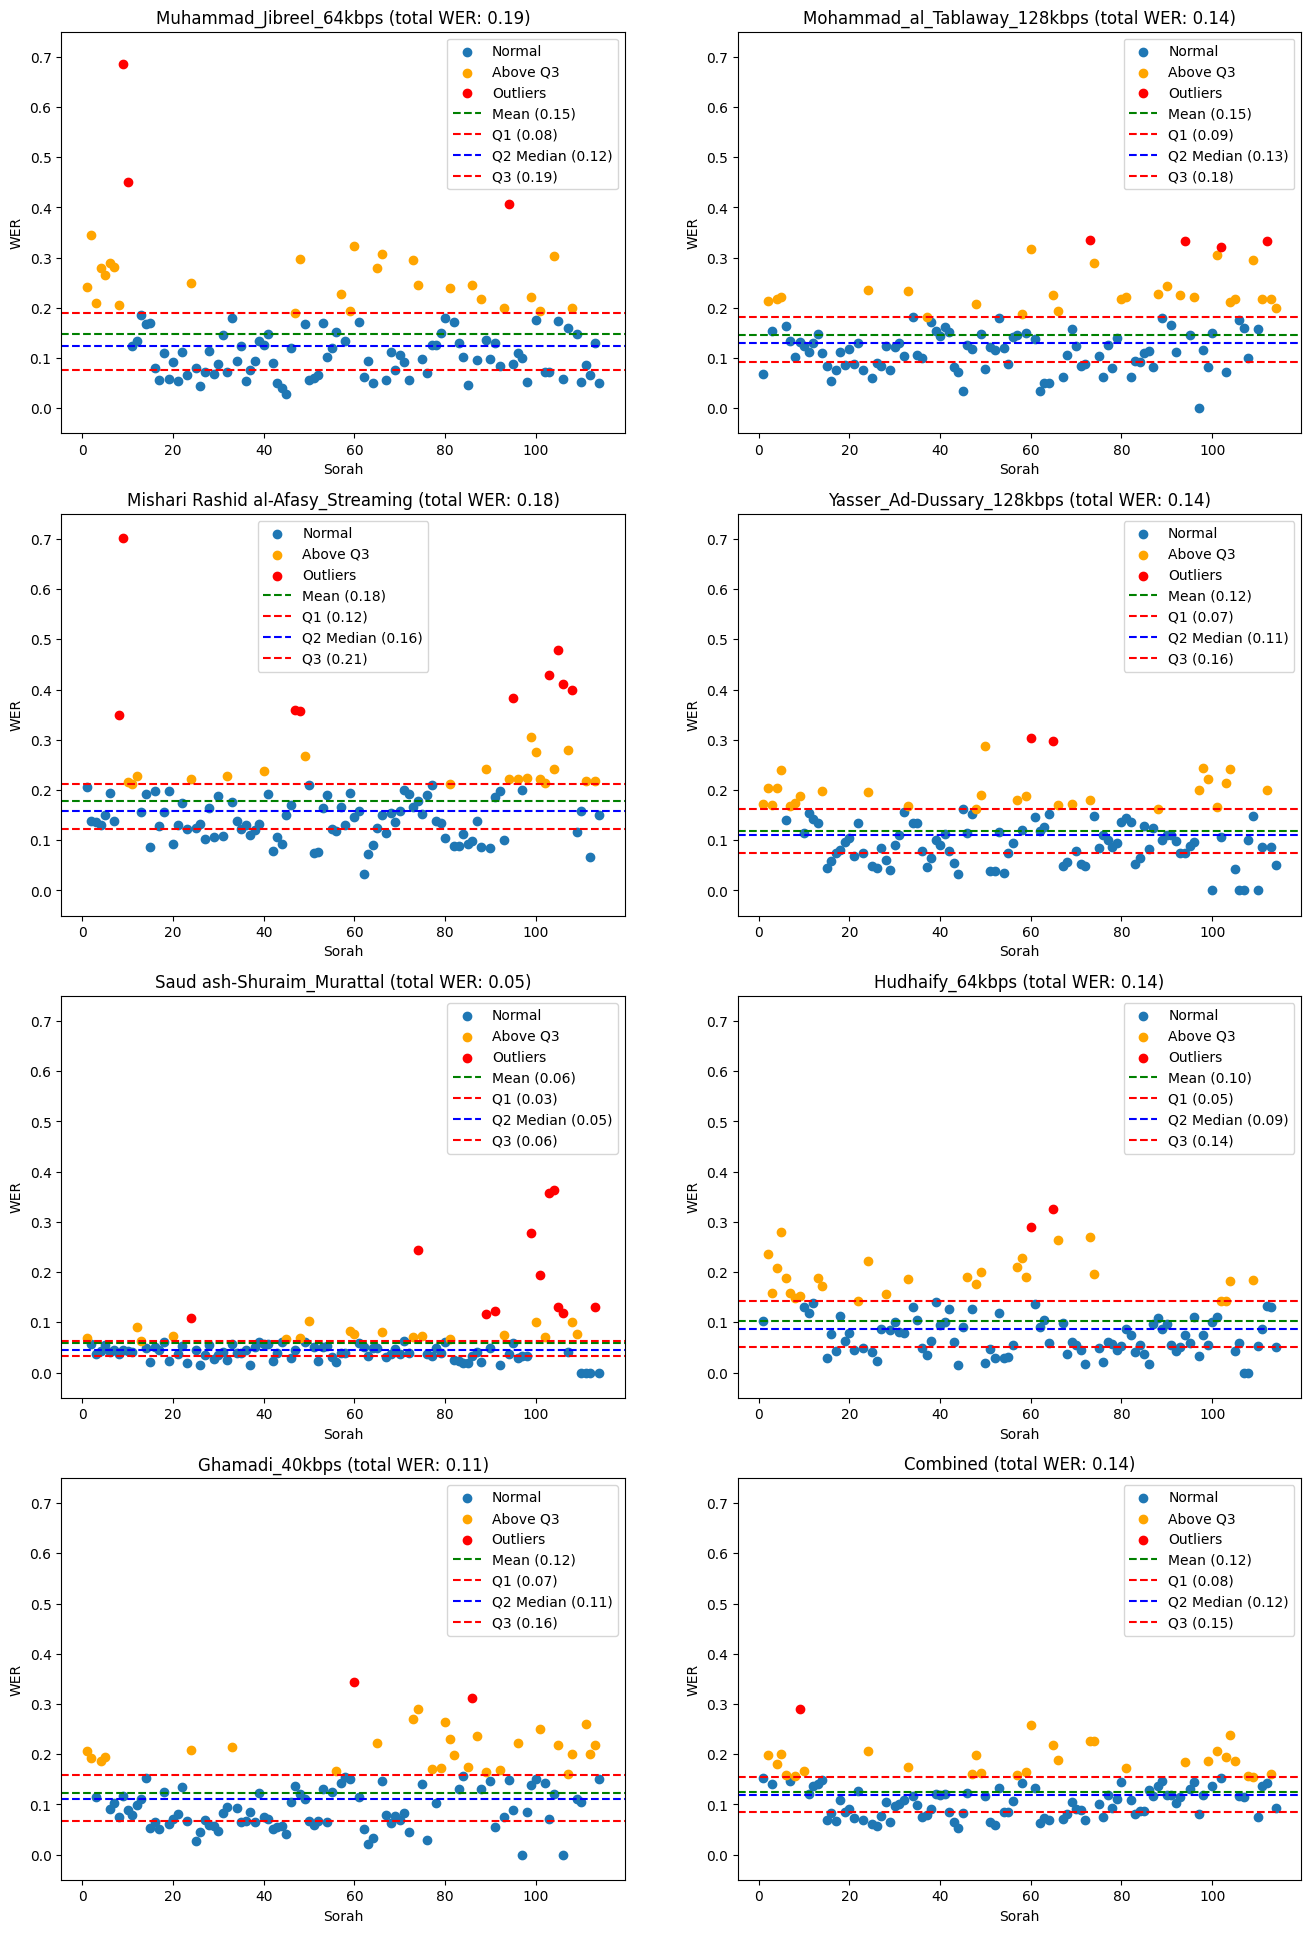
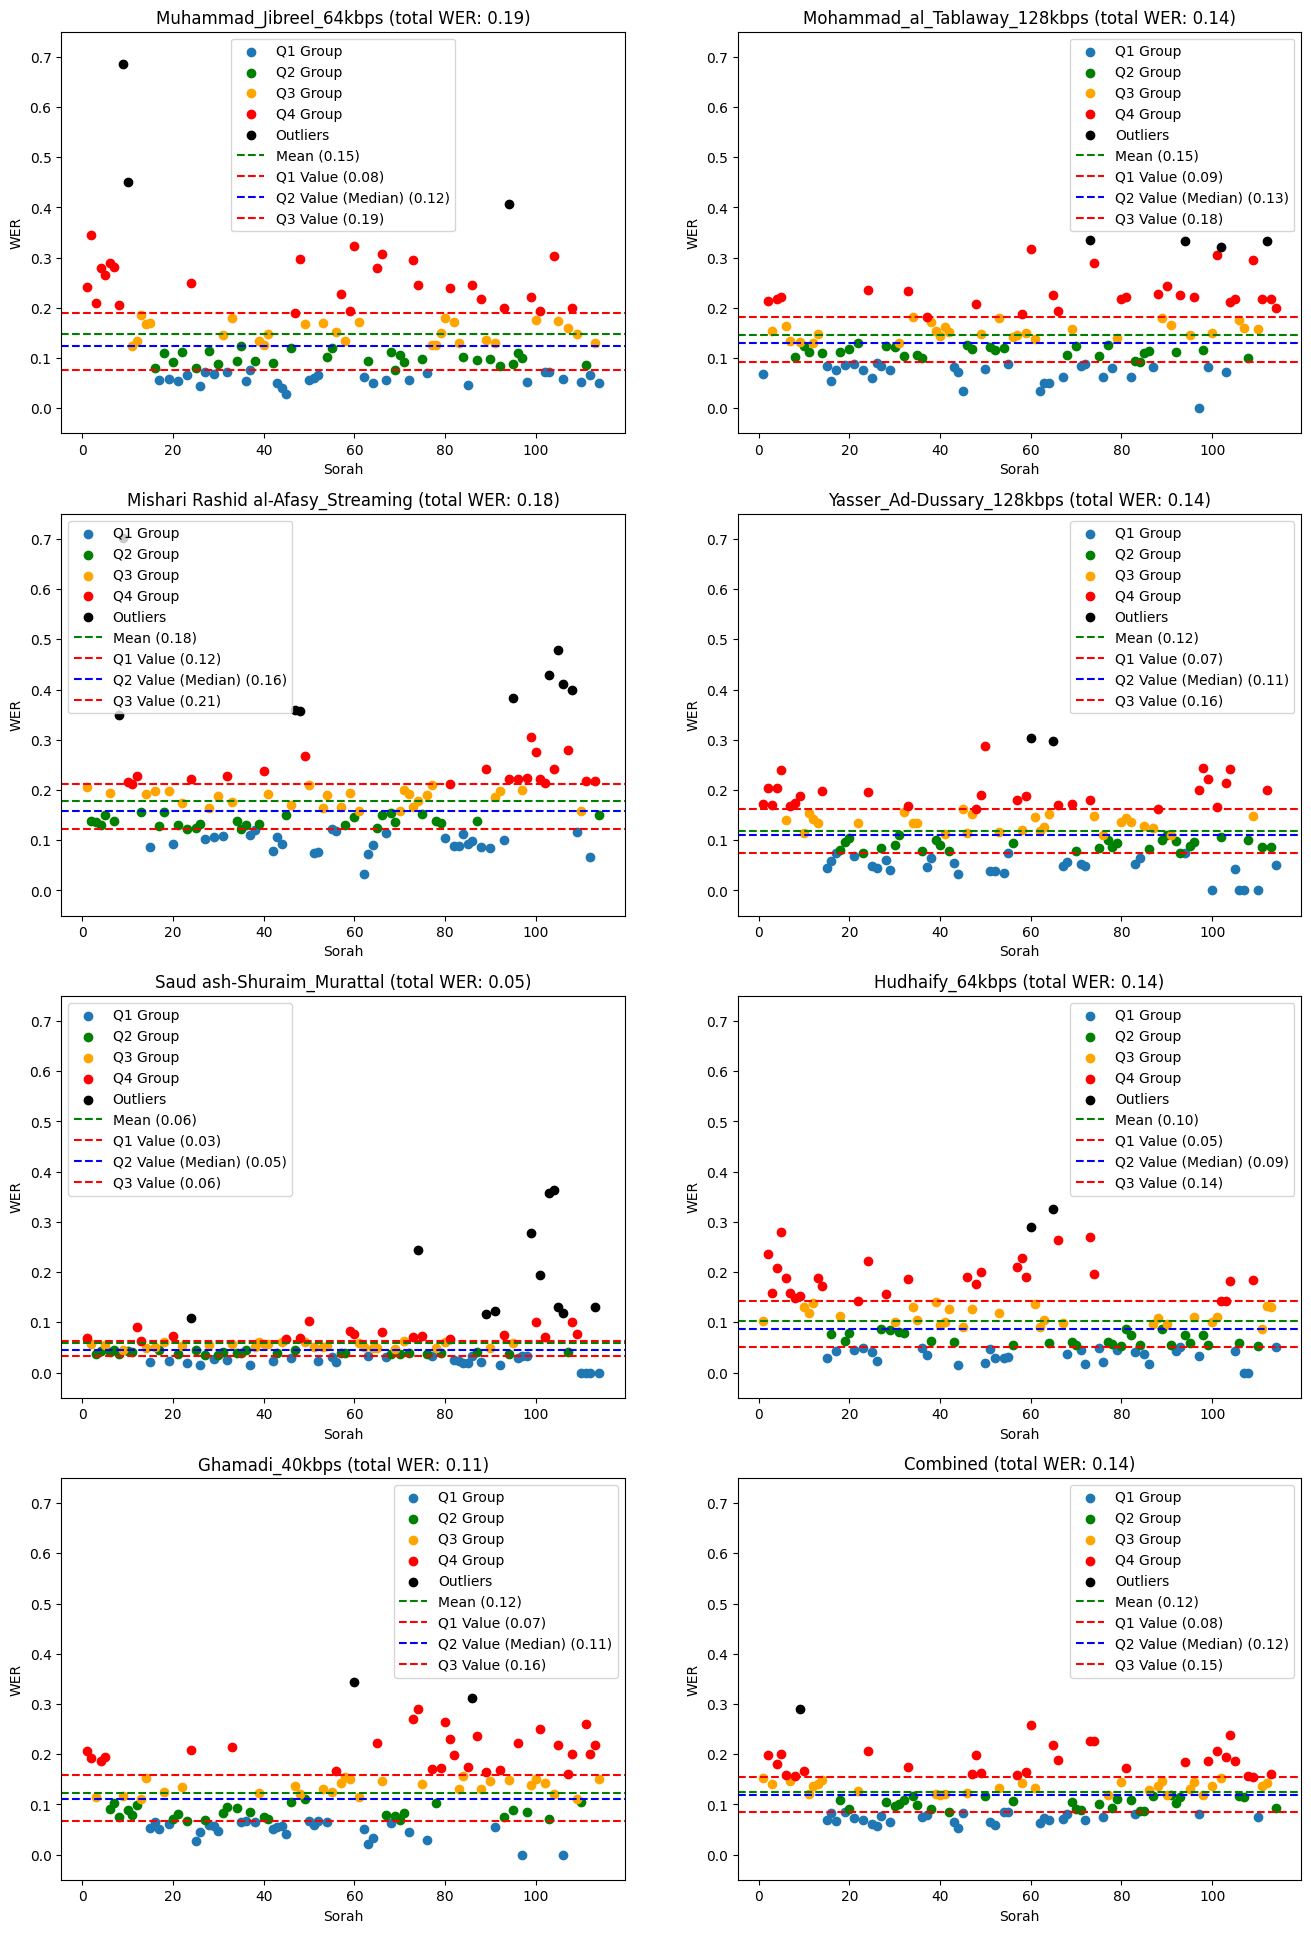
exp-7a: add more sorah info
each sorah now has:
* its quartile and whether it is an outlier or not.
* its name.

diff --git a/experiments/07A.md b/experiments/07A.md
@@ -95,6 +95,10 @@ Author: Omar Tarek
 
 ### 3. Results visualization
 
+* Outliers are determined using the IQR (Interquartile range):
+
+        IQR = Q3 - Q1
+
 #### epoch 1
 
 <p align="center">
@@ -166,9 +170,11 @@ Author: Omar Tarek
 
 [2] quran.com timestamps: https://www.kaggle.com/datasets/abdo3id/quran-com-site-timestamps
 
-[3] the-algorithm-v3-dataset-part-1: https://www.kaggle.com/code/omartariq612/the-algorithm-dataset-1
+[3] quran.com sorah metadata: https://www.kaggle.com/datasets/omartariq612/quran-com-sorah-metadata/
 
-[4] the-algorithm-v3-dataset-part-2: https://www.kaggle.com/code/omartariq612/the-algorithm-dataset-2
+[4] the-algorithm-v3-dataset-part-1: https://www.kaggle.com/code/omartariq612/the-algorithm-dataset-1
+
+[5] the-algorithm-v3-dataset-part-2: https://www.kaggle.com/code/omartariq612/the-algorithm-dataset-2
 
 
 ## References
